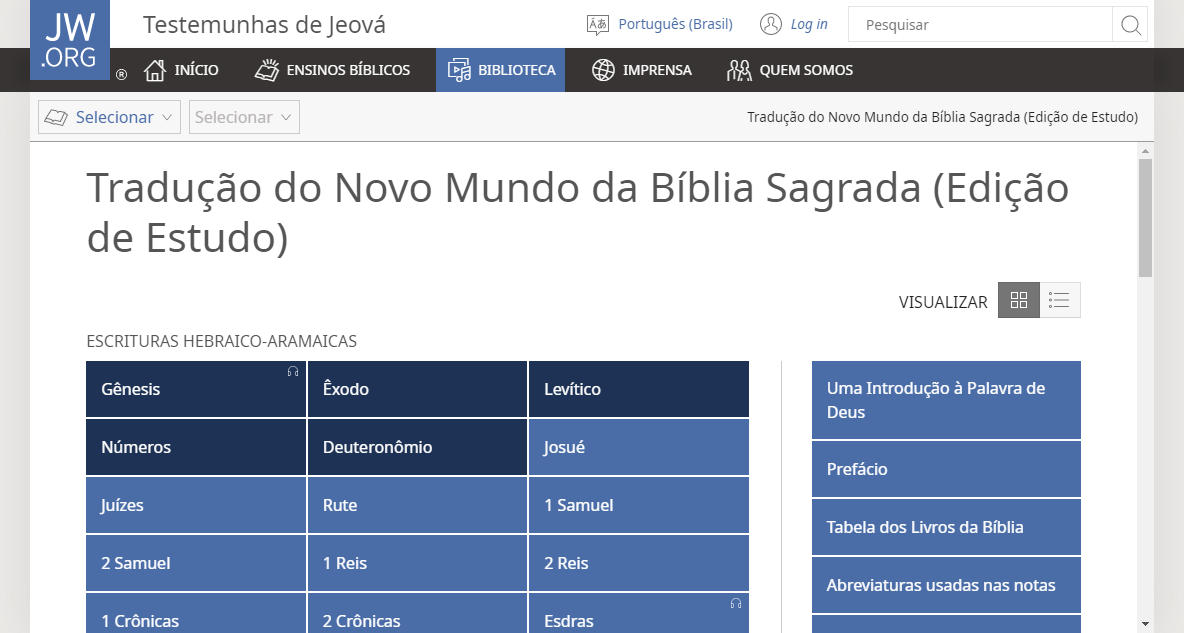
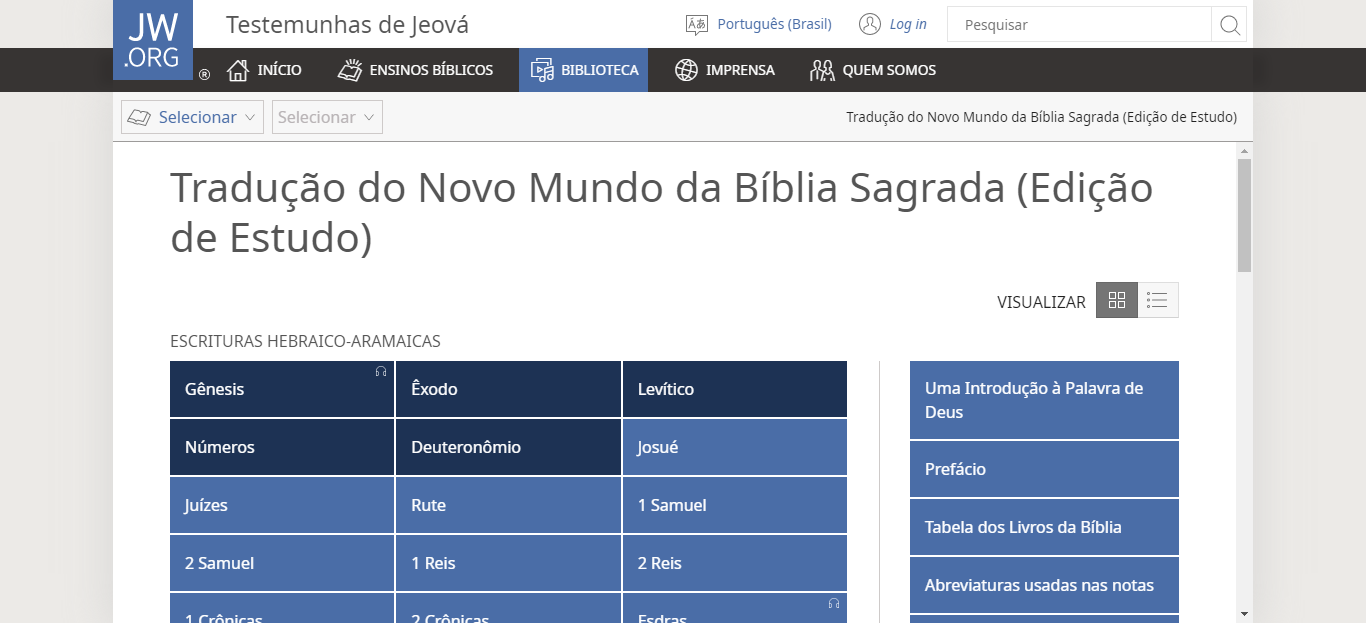
Corrigido problema do play

Changed region(s): [[0.0, 0.0, 1.0, 1.0], [0.5, 0.0, 0.7812, 0.061], [0.9062, 0.0, 0.9688, 0.0915]]

diff --git a/src/main/java/jpv/pages/BiblePage.java b/src/main/java/jpv/pages/BiblePage.java
@@ -2,8 +2,6 @@ package jpv.pages;
 
 import static jpv.core.DriverFactory.getDriver;
 
-import java.util.concurrent.TimeUnit;
-
 import org.openqa.selenium.By;
 import org.openqa.selenium.support.ui.ExpectedConditions;
 import org.openqa.selenium.support.ui.WebDriverWait;
@@ -19,8 +17,9 @@ public class BiblePage extends BasePage {
 		wait.until(ExpectedConditions.invisibilityOfElementLocated(By.xpath("//div[@id='jsFullScreenLoadingIndicator']")));
 		selecionarCapitulo(capitulo);
 		wait.until(ExpectedConditions.invisibilityOfElementLocated(By.xpath("//div[@id='jsFullScreenLoadingIndicator']")));
+		wait.until(ExpectedConditions.presenceOfElementLocated(By.xpath("//div[@class='vjs-control-bar']")));
 		selecionarVersiculo(verso);
-		getDriver().manage().timeouts().implicitlyWait(30,TimeUnit.SECONDS);
+		wait.until(ExpectedConditions.visibilityOfElementLocated(By.xpath("//div[@class='contextMenuButton']")));
 		play();
 		
 	}

diff --git a/src/main/java/jpv/core/DriverFactory.java b/src/main/java/jpv/core/DriverFactory.java
@@ -3,7 +3,6 @@ package jpv.core;
 import java.net.MalformedURLException;
 import java.net.URL;
 
-import org.openqa.selenium.Dimension;
 import org.openqa.selenium.WebDriver;
 import org.openqa.selenium.chrome.ChromeDriver;
 import org.openqa.selenium.firefox.FirefoxDriver;
@@ -52,7 +51,7 @@ public class DriverFactory {
 			
 		}
 			
-			driver.manage().window().setSize(new Dimension(1200, 765));
+			driver.manage().window().maximize();
 			return driver;
 		
 	}
